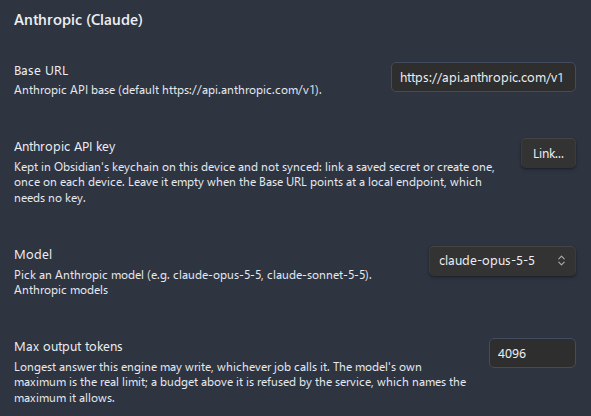
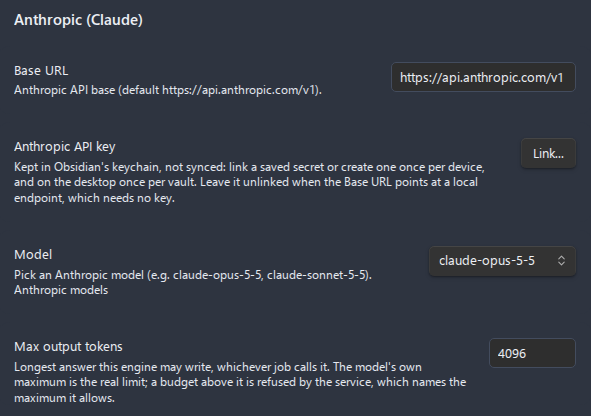
fix(settings): say the desktop keychain is per vault on the key row
The API key row and the migration notice said a key is entered once per
device, while the desktop keychain is scoped to the vault as well, and the
row still told the user to leave the key empty, which fits the removed
text field rather than the keychain picker.

Functional Changes:
- The key row description says once per device, and on the desktop once
  per vault, and to leave the key unlinked for a local endpoint.
- The migration notice says the plain-text copy goes at the next start of
  this device, and that the key is entered on other devices and vaults.
- The eight engine figures in docs/images are rendered again from the
  changed rows under the names the pages already use.

Changed region(s): [[0.0305, 0.375, 0.8223, 0.5]]

diff --git a/src/main.ts b/src/main.ts
@@ -789,8 +789,8 @@ export default class AudioRecorderPlugin extends Plugin {
 		const names = linked.map((id) => ACCOUNTS[id].keyFieldName);
 		new Notice(
 			`Advanced Audio Recorder: ${names.join(', ')} ${names.length === 1 ? 'was' : 'were'} copied into Obsidian's keychain (Settings > Keychain). ` +
-				"The plain-text copy in the plugin's data.json is removed the next time Obsidian starts and finds the key there. " +
-				'Secrets are kept on each device and are not synced, so enter the key once on your other devices.',
+				"The plain-text copy in the plugin's data.json is removed the next time Obsidian starts on this device and finds the key there. " +
+				'Secrets are kept on each device, and on the desktop in each vault, and are not synced, so enter the key once on your other devices and vaults.',
 			0,
 		);
 	}

diff --git a/tests/integration/settingsDefinitions.test.ts b/tests/integration/settingsDefinitions.test.ts
@@ -788,15 +788,16 @@ describe('settings definitions', () => {
 			},
 		);
 
-		it('says where a key is kept and that a local endpoint needs none', () => {
+		it('says where a key is kept, how far it reaches, and that a local endpoint needs none', () => {
 			const row = rowOf(
 				build(),
 				EngineLabel.Deepgram,
 				'Deepgram API key',
 			);
 
-			expect(row.desc).toMatch(/keychain on this device and not synced/);
-			expect(row.desc).toMatch(/local endpoint/);
+			expect(row.desc).toMatch(/keychain, not synced/);
+			expect(row.desc).toMatch(/once per vault/);
+			expect(row.desc).toMatch(/unlinked when .* local endpoint/);
 		});
 
 		it('picks the model in place and keeps the list behind an entry', () => {

diff --git a/src/providers/providers.ts b/src/providers/providers.ts
@@ -98,8 +98,8 @@ export type EngineLabel = (typeof EngineLabel)[keyof typeof EngineLabel];
 
 /** Description shown under every key field. */
 const STORED_LOCALLY_DESC =
-	"Kept in Obsidian's keychain on this device and not synced: link a saved secret or create one, once on each device. " +
-	'Leave it empty when the Base URL points at a local endpoint, which needs no key.';
+	"Kept in Obsidian's keychain, not synced: link a saved secret or create one once per device, and on the desktop once per vault. " +
+	'Leave it unlinked when the Base URL points at a local endpoint, which needs no key.';
 
 /**
  * How an account is reached: one endpoint and one key, whatever the engines

diff --git a/tests/e2e/apiKeyKeychain.e2e.test.ts b/tests/e2e/apiKeyKeychain.e2e.test.ts
@@ -211,6 +211,7 @@ describe('loading a data.json that holds API keys in plain text', () => {
 		expect(at(told, 0)).toContain('OpenAI API key, Deepgram API key');
 		expect(at(told, 0)).toContain('Settings > Keychain');
 		expect(at(told, 0)).toContain('not synced');
+		expect(at(told, 0)).toContain('on the desktop in each vault');
 	});
 
 	it('does nothing more on the next load', async () => {
